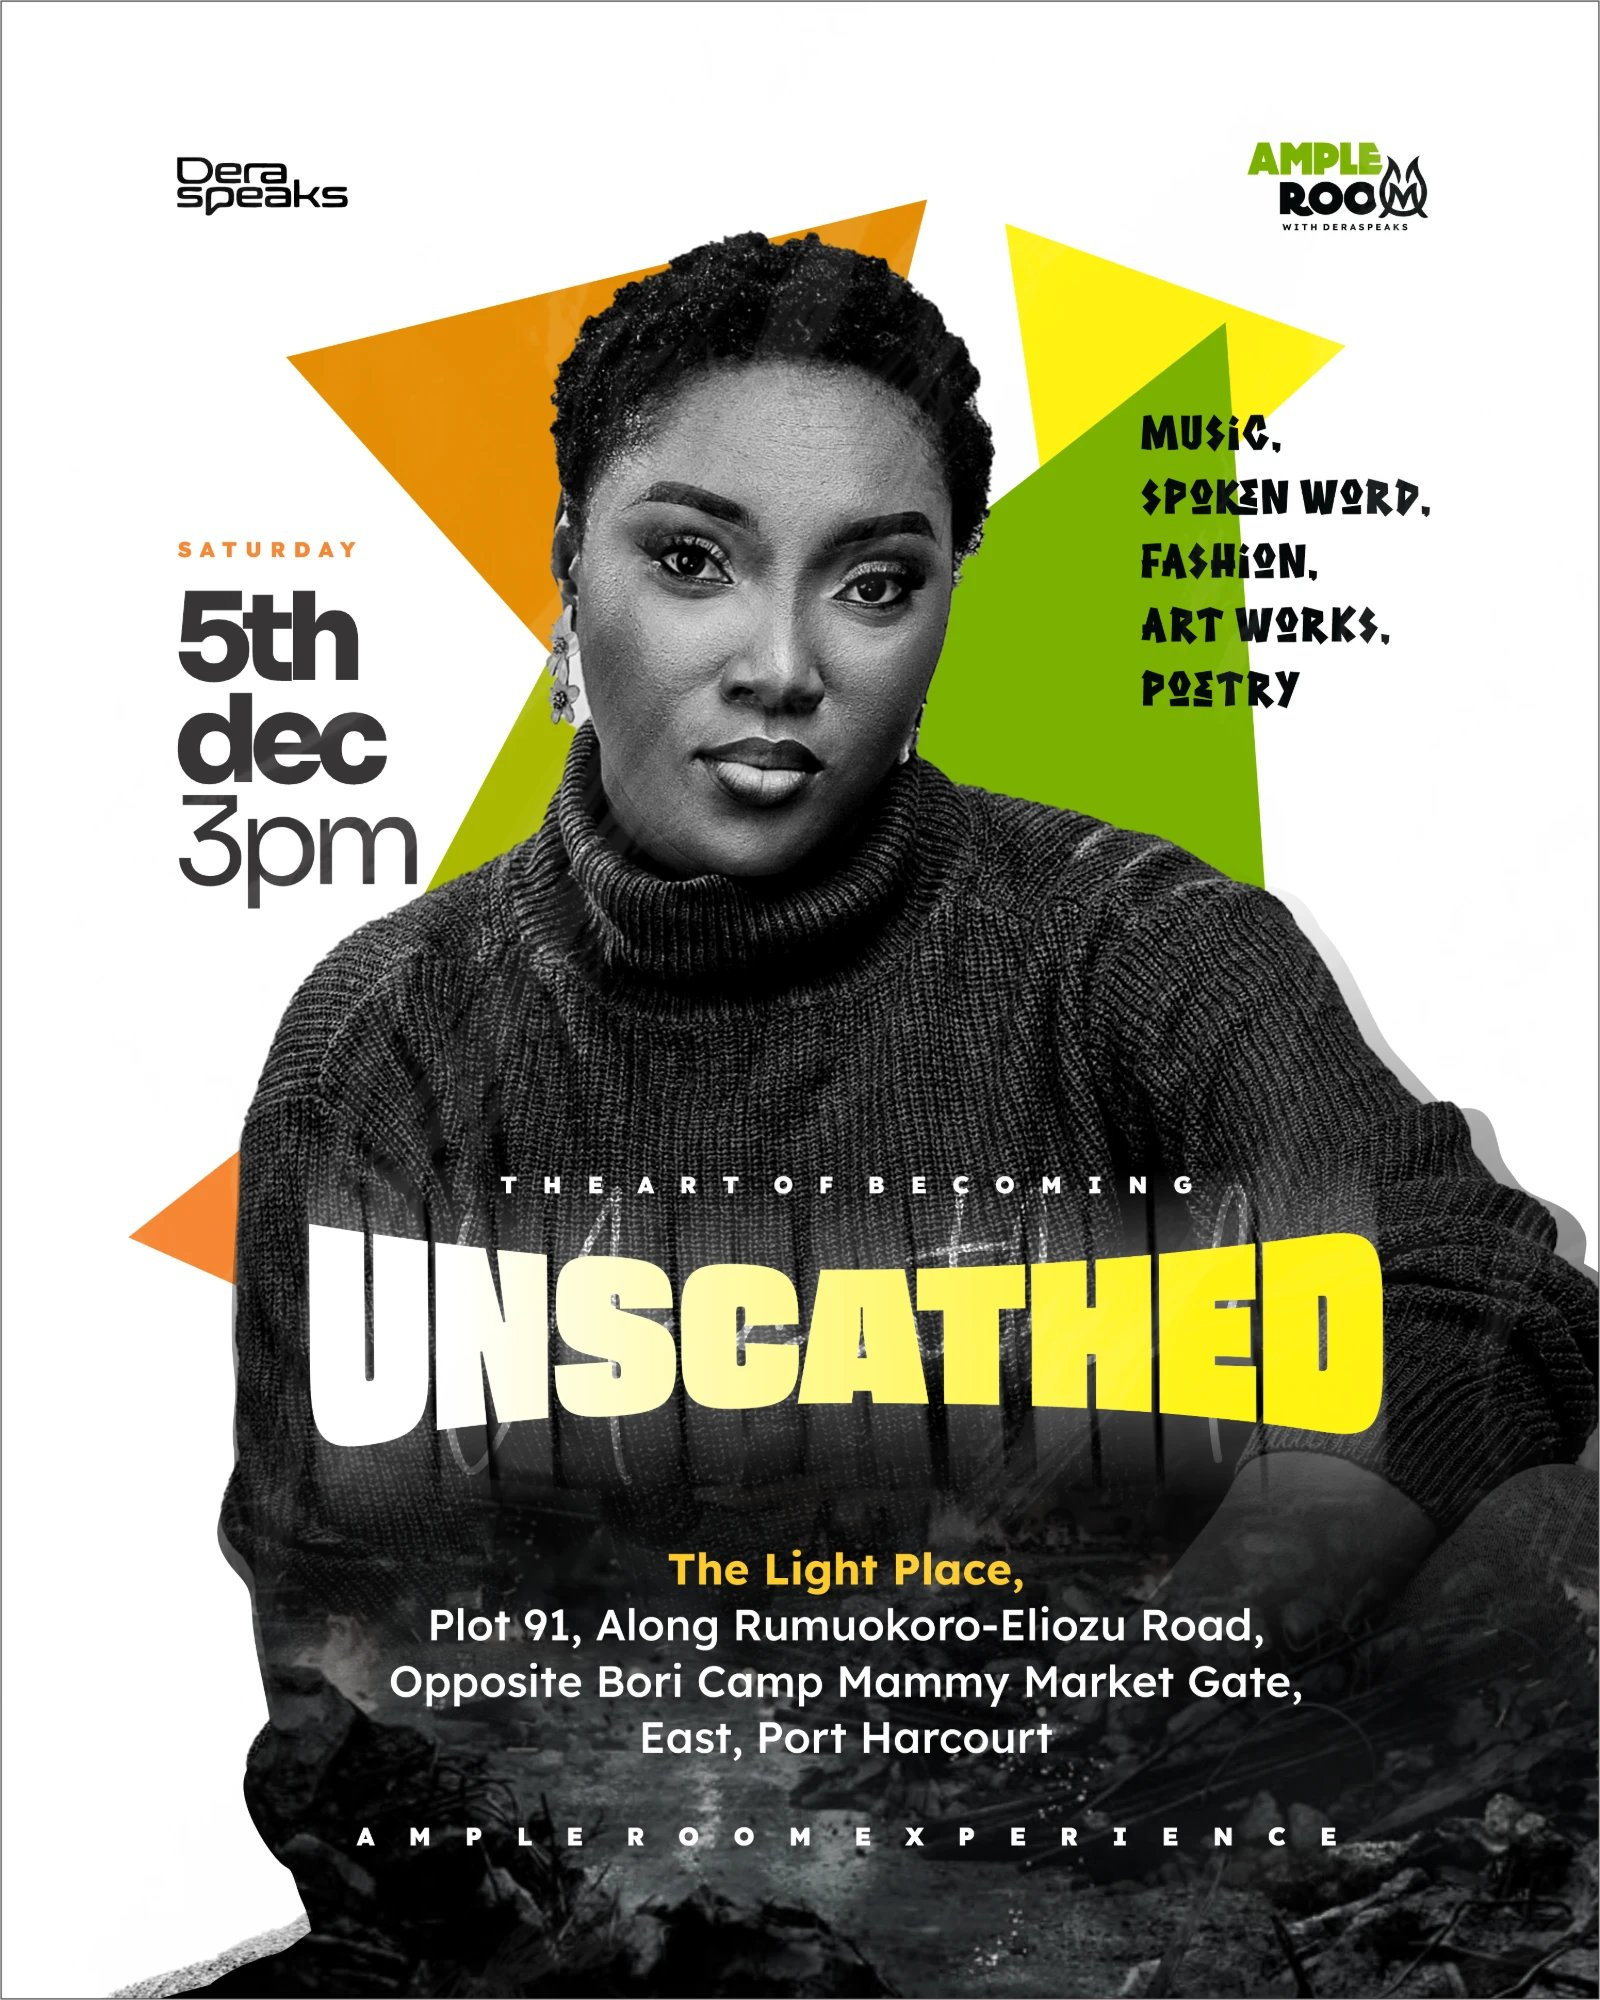
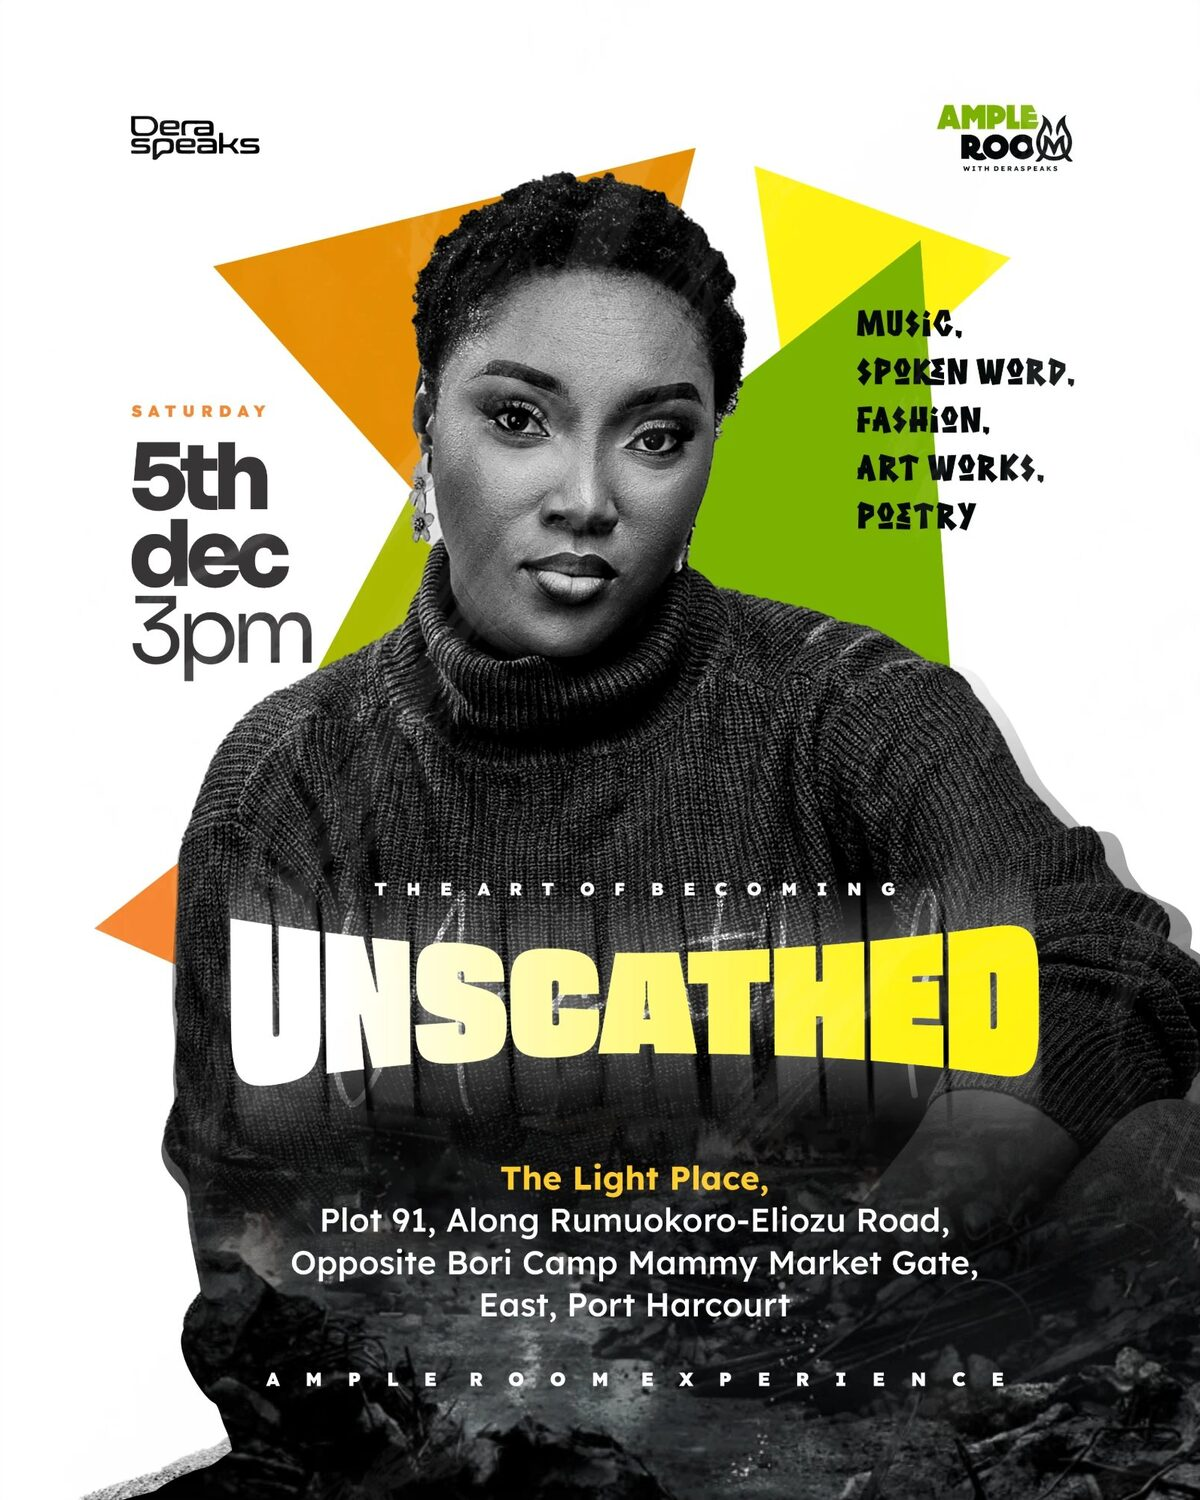
Events: the poster as a balanced card, lighter and without its grey edge (#131)
- Event page and registration page show the poster as a rounded card at its
  own shape, centred, with no grey panel around it; at most 62% of the screen
  height (580px) on the event page, and 88% of the width on phones.
- unscathed-poster.jpg: the thin grey line along its edges trimmed, and
  resized to 1200x1500 (432 KB to 259 KB) so it loads faster on phones.

Claude-Session: https://claude.ai/code/session_013pbjbgacUheP7vTDkcStz6

diff --git a/src/pages/events/EventDetailPage.tsx b/src/pages/events/EventDetailPage.tsx
@@ -75,9 +75,7 @@ export function EventDetailPage({ slug }: { slug: string }) {
 
         <div className="mt-5 grid gap-10 lg:grid-cols-[1fr_400px]">
           <article className="min-w-0">
-            <div className="overflow-hidden rounded-[32px] bg-navy-50">
-              <CoverImage src={event.cover_url || DEFAULT_COVER} maxHeight="min(72vh, 680px)" />
-            </div>
+            <CoverImage src={event.cover_url || DEFAULT_COVER} maxHeight="min(62vh, 580px)" />
             <div className="mt-7 flex flex-wrap items-center gap-2">
               <span className="rounded-full bg-gold-50 px-3 py-1 text-xs font-semibold text-gold-800">{categoryLabel(event.category)}</span>
               {event.mode !== 'in_person' && <span className="rounded-full bg-navy-50 px-3 py-1 text-xs font-semibold text-navy-700">{event.mode === 'online' ? 'Online' : 'In person + online'}</span>}

diff --git a/src/pages/events/EventRegisterPage.tsx b/src/pages/events/EventRegisterPage.tsx
@@ -117,9 +117,7 @@ function EventPanel({ event, onOpen }: { event: PublicEvent; onOpen: () => void 
   const accent = brandOf(event);
   return (
     <aside className="sticky top-24 max-h-[calc(100dvh-7rem)] overflow-y-auto pb-4 [scrollbar-width:thin]">
-      <div className="overflow-hidden rounded-[28px] bg-navy-50 shadow-[0_24px_60px_-28px_rgba(13,28,59,0.45)]">
-        <CoverImage src={event.cover_url || DEFAULT_COVER} maxHeight="min(46vh, 460px)" />
-      </div>
+      <CoverImage src={event.cover_url || DEFAULT_COVER} maxHeight="min(46vh, 460px)" />
       <Organiser event={event} className="mt-6" />
       <h1 className="mt-3 font-event-display text-[40px] font-semibold leading-[1.05] tracking-tight text-navy-900">{event.title}</h1>
       {event.tagline && <p className="mt-2 text-sm font-bold uppercase tracking-[0.2em]" style={{ color: accent }}>{event.tagline}</p>}

diff --git a/src/components/events/EventKit.tsx b/src/components/events/EventKit.tsx
@@ -116,9 +116,11 @@ export function EventCard({ event, onOpen }: { event: Pick<PublicEvent, 'slug' |
  * allows: a tall poster is shown at a height that fits, centred, so nobody scrolls to see it.
  */
 export function CoverImage({ src, maxHeight = '70vh' }: { src: string; maxHeight?: string }) {
+  // The poster as a card at its own shape: whole, centred, never wider than the page or taller than maxHeight.
   return (
-    <div className="flex w-full justify-center bg-navy-50">
-      <img src={src} alt="" style={{ maxHeight }} className="block h-auto w-auto max-w-full" />
+    <div className="flex w-full justify-center">
+      <img src={src} alt="" decoding="async" style={{ maxHeight }}
+        className="block h-auto w-auto max-w-[88%] sm:max-w-full rounded-[24px] shadow-[0_24px_60px_-28px_rgba(13,28,59,0.45)] ring-1 ring-navy-900/5" />
     </div>
   );
 }
